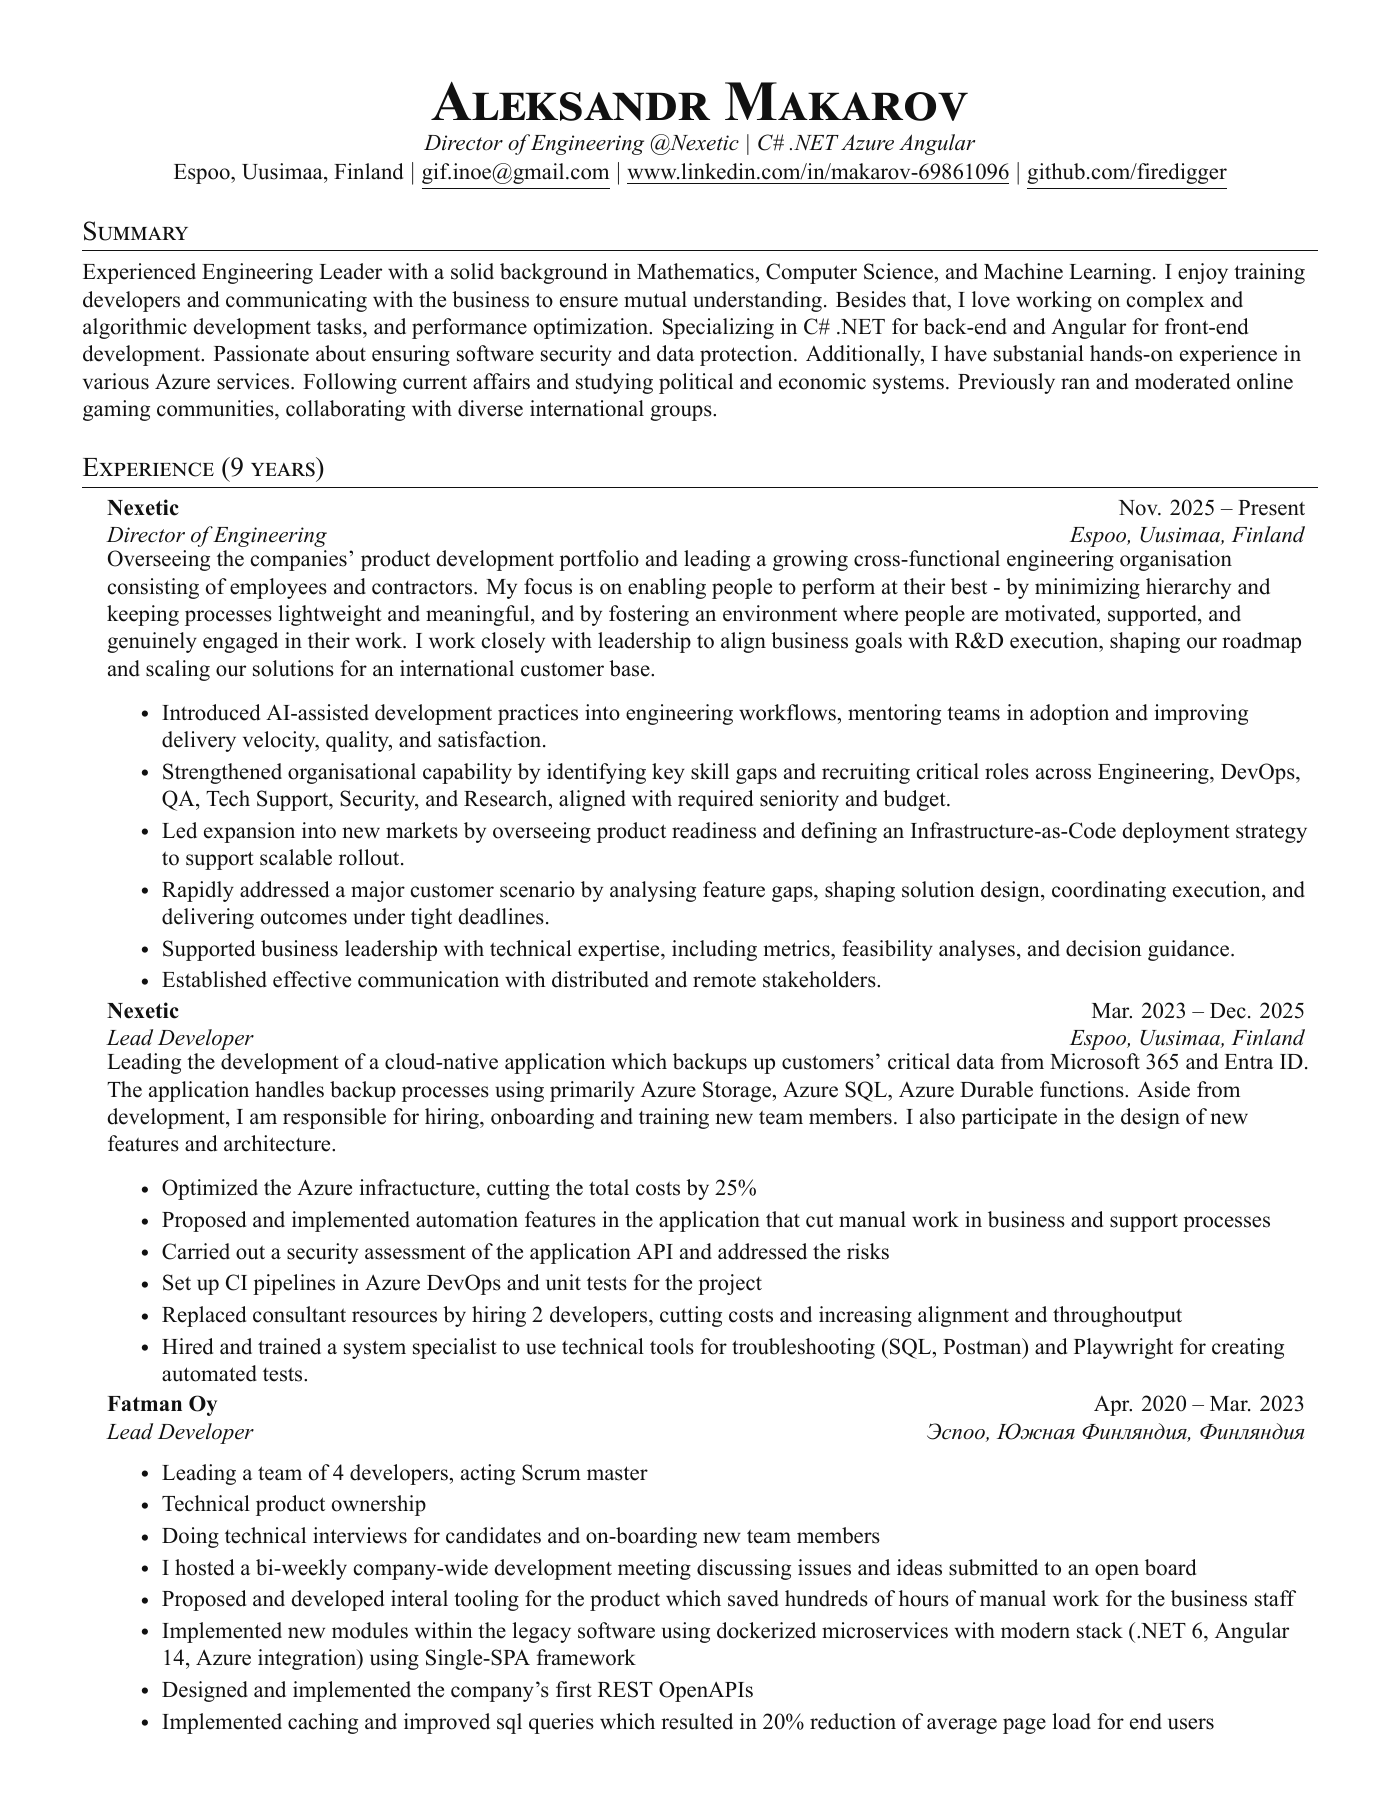
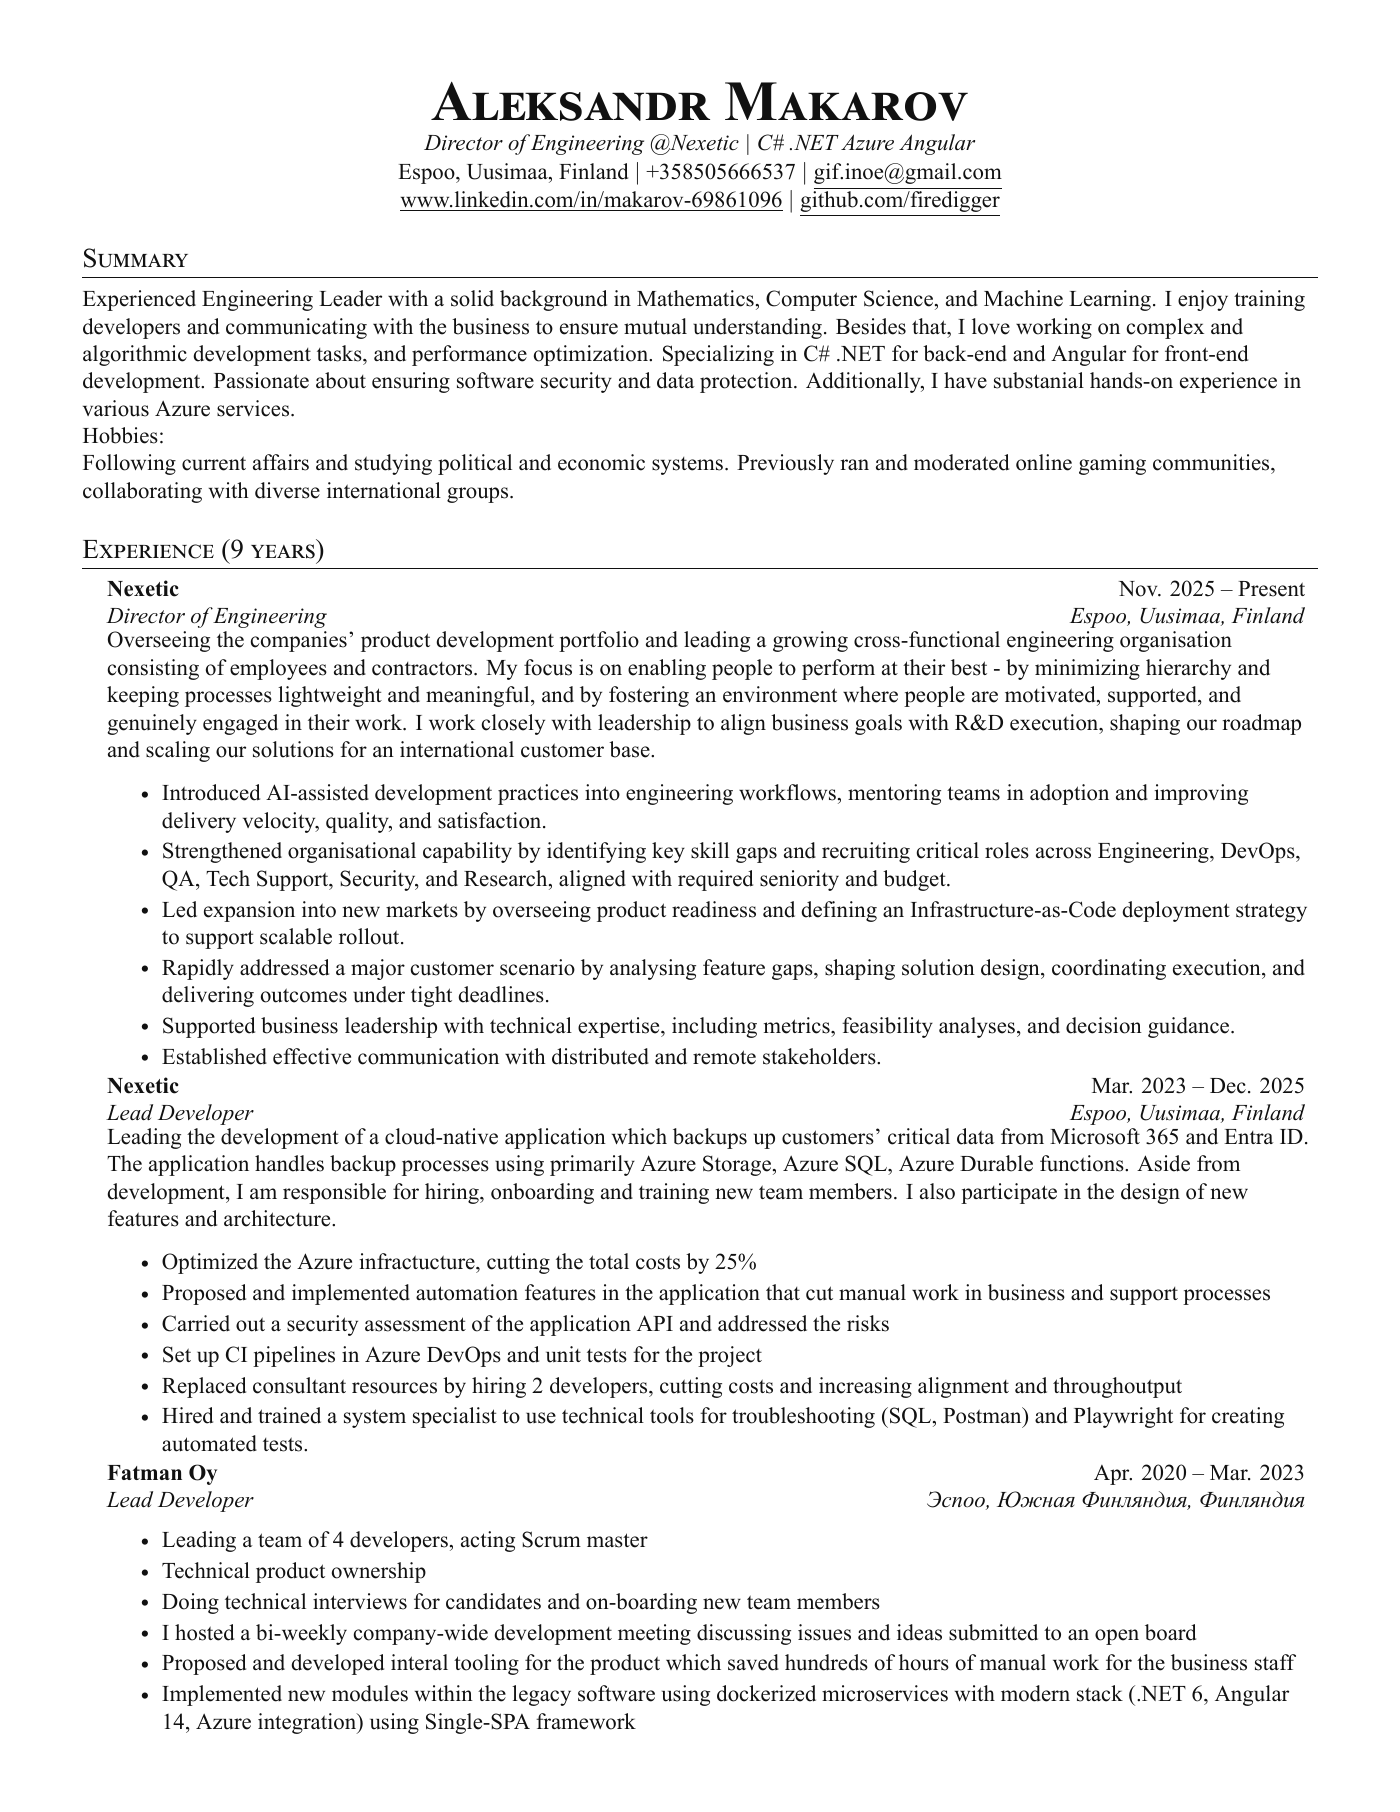
Add hobbies marker detection

Changed region(s): [[0.0614, 0.0927, 0.9214, 0.9581]]

diff --git a/linkedin_resume_parser/parser.py b/linkedin_resume_parser/parser.py
@@ -212,6 +212,8 @@ def parse_pdf(path: str) -> dict:
     volunteer = parse_volunteer(sections.get("volunteer", []))
     languages = parse_languages(sections.get("languages", []))
     interests = parse_interests(sections.get("interests", []))
+    hobbies_marker = find_hobbies_marker(lines)
+    add_interests_label_to_summary(basics, interests, hobbies_marker)
 
     resume = {
         "basics": basics,
@@ -225,6 +227,65 @@ def parse_pdf(path: str) -> dict:
         "interests": interests,
     }
     return resume
+
+
+def find_hobbies_marker(lines: list[Line]) -> str:
+    split = detect_column_split(lines)
+    if split is None:
+        return ""
+    hobbies_lines = [line for line in lines if "hobbies:" in line.text.lower()]
+    if not hobbies_lines:
+        return ""
+    best_text = ""
+    best_gap = None
+    for hobby_line in hobbies_lines:
+        hobby_is_left = hobby_line.x0 <= split
+        candidates = [
+            line
+            for line in lines
+            if line.page == hobby_line.page
+            and (line.x0 <= split) != hobby_is_left
+            and line.top >= hobby_line.top
+        ]
+        for line in candidates:
+            text = line.text.strip()
+            if not text or "hobbies" in text.lower():
+                continue
+            gap = line.top - hobby_line.top
+            if best_gap is None or gap < best_gap:
+                best_gap = gap
+                best_text = text
+    return best_text
+
+
+def add_interests_label_to_summary(
+    basics: dict, interests: list[dict], hobbies_marker: str = ""
+) -> None:
+    summary = (basics.get("summary") or "").strip()
+    if not summary:
+        return
+    if re.search(r"\bhobbies\b", summary, re.I):
+        return
+    if not interests and not hobbies_marker:
+        return
+
+    names = [item.get("name", "").strip() for item in interests if item.get("name")]
+    if names:
+        interests_text = ", ".join(names)
+        match = re.search(re.escape(interests_text), summary, re.I)
+        if match:
+            summary = summary[: match.start()] + "Hobbies: " + summary[match.start() :]
+        else:
+            separator = " " if summary and not summary.endswith((".", "!", "?", ":")) else " "
+            summary = summary.rstrip() + separator + f"Hobbies: {interests_text}"
+        basics["summary"] = summary.strip()
+        return
+
+    if hobbies_marker:
+        match = re.search(re.escape(hobbies_marker), summary, re.I)
+        if match:
+            summary = summary[: match.start()] + "Hobbies: " + summary[match.start() :]
+    basics["summary"] = summary.strip()
 
 
 def extract_lines(path: str) -> list[Line]:

diff --git a/linkedin_resume_parser/latex.py b/linkedin_resume_parser/latex.py
@@ -1,6 +1,7 @@
 from __future__ import annotations
 
 import argparse
+import re
 import json
 from datetime import datetime
 from pathlib import Path
@@ -193,6 +194,7 @@ def build_summary_section(basics: dict[str, Any]) -> str:
     if not summary:
         return ""
     summary_text = latex_escape(summary)
+    summary_text = re.sub(r"\bHobbies:\s*", r"\\\\ Hobbies:\\\\ ", summary_text, flags=re.I)
     return "\\section{Summary}\n  \\small{" + summary_text + "}\n"
 
 
